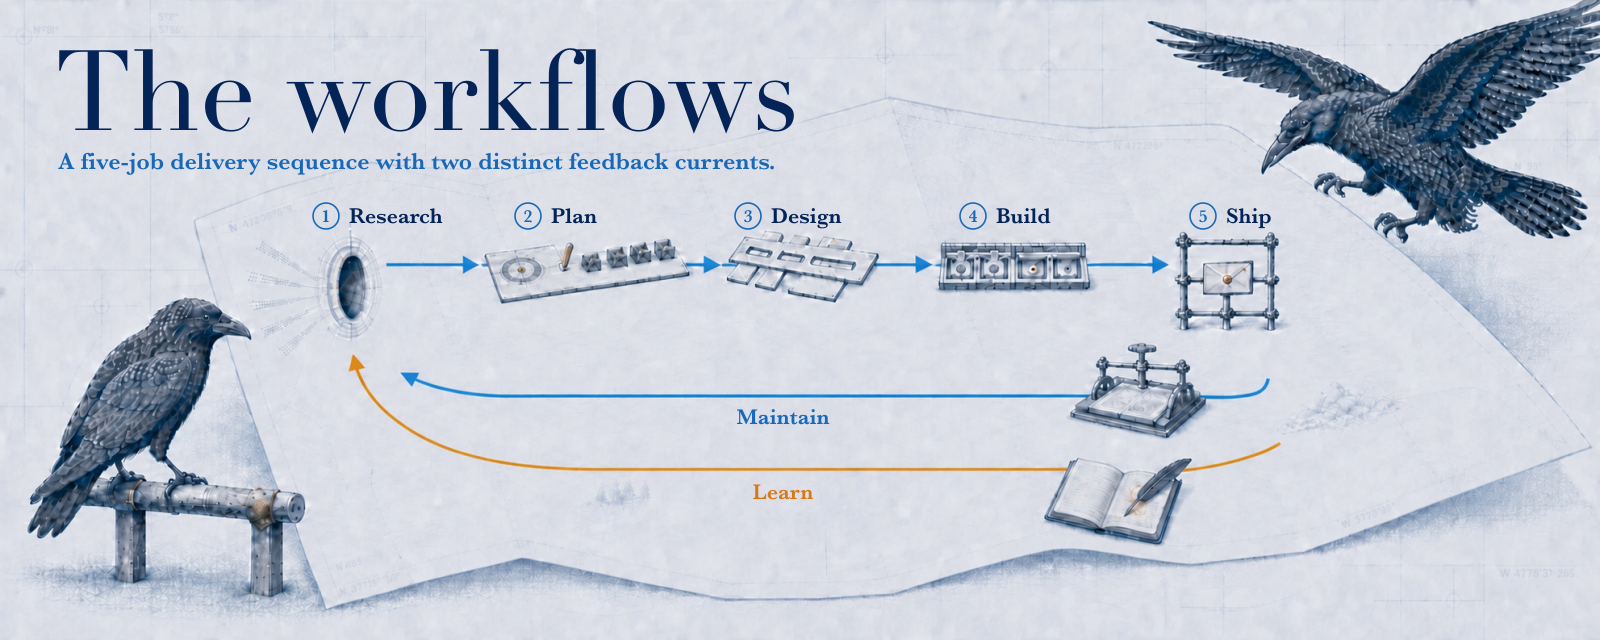
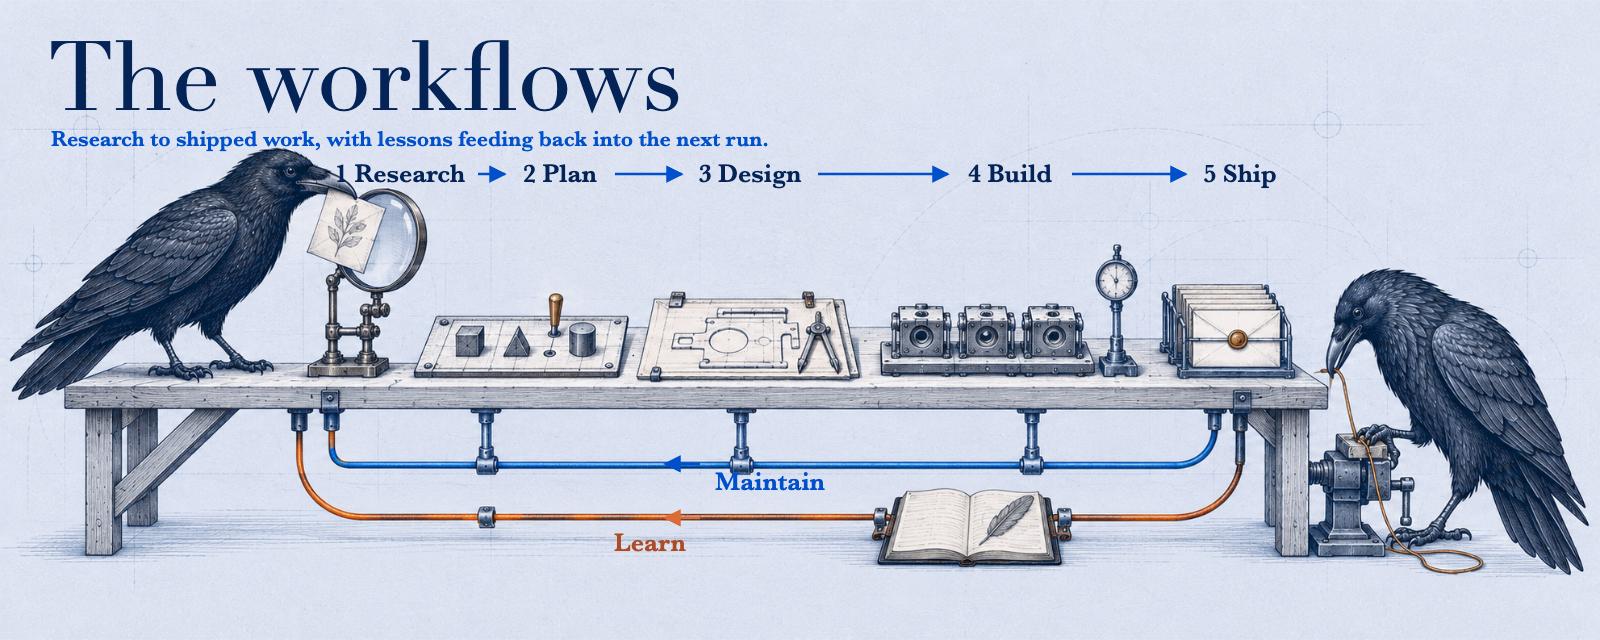
docs: show the workflow as a working bench with distinct feedback paths

diff --git a/DESIGN.md b/DESIGN.md
@@ -75,7 +75,7 @@ Navy signals authority, cobalt shows the sequence, and blue-gray defines support
 
 **The Layered Type Rule.** Keep essential lettering as real typography over a text-free illustration plate, retain the editable source, and export the shipped raster losslessly.
 
-The workflow banner keeps its illustration and typography in separate production layers. `docs/assets/the-rookery-workflows-banner-artwork.webp` is the regenerated text-free illustration plate with complete routes and mechanisms, and `docs/assets/the-rookery-workflows-banner.svg` adds the title in Didot and the supporting copy and labels in Baskerville Semibold. The SVG contains no corrective artwork patches. The shipped WebP is a lossless render of that editable source, so later copy changes should update the vector text layer rather than regenerate the illustration.
+The workflow banner keeps its illustration and typography in separate production layers. `docs/assets/the-rookery-workflows-banner-artwork.webp` holds the text-free working bench and its two return cables. `docs/assets/the-rookery-workflows-banner.svg` adds the Didot title, Baskerville supporting copy and labels, delivery arrows, and return arrowheads. The shipped WebP is a lossless render of that editable source, so later copy changes should update the vector text layer rather than regenerate the illustration.
 
 The README banner follows the same pattern. `docs/assets/the-rookery-readme-banner-artwork.webp` holds the text-free artwork; `docs/assets/the-rookery-readme-banner.svg` adds the Didot title and the Baskerville tagline, “A field guide to how I build with AI.” Its matching WebP is the lossless rendered asset used by the README.
 
@@ -89,7 +89,7 @@ Repository banners use a wide landscape canvas (1600 × 640). They depend on lar
 
 A banner should make its main elements clear at first glance. Give the title a clear area, make the corvid's action dominant, and place a route or mechanism across the remaining space. Other explanatory visuals should concentrate on one job or relationship at a time. The mechanism should be readable before the texture, and the subject should face or move into the next meaningful area of the composition.
 
-The approved workflow banner uses field-map composition C: a large serif title and cobalt subtitle occupy the upper-left while an unfolded diagonal map fills the field. One raven anchors Research and another descends to retrieve the verified dispatch at Ship. Research runs through Plan, Design, Build, and Ship above two quiet return ribbons, without a redundant label over the numbered delivery sequence. A solid cobalt Maintain ribbon passes through a compact repair-and-binding press, while a solid orange Learn ribbon passes through an open field notebook and feather. The ribbons omit detailed inputs and outcomes. The adjacent prose explains how Maintain creates repository memory and Learn returns a better question to Research. This arrangement is specific to the workflow explanation, not a template for every future asset.
+The approved workflow banner uses a working bench. Five distinct mechanisms carry Research through Plan, Design, Build, and Ship from left to right. Huginn brings a field note to the research lens while Muninn works at the repair clamp on the right. Their labels sit on clear paper above the mechanisms, with Research shifted away from Huginn's head. A cobalt cable returns improvements to the bench, and a separate orange cable passes through the learning notebook. The adjacent prose explains how Maintain creates repository memory and Learn returns a better question to Research. This arrangement is specific to the workflow explanation, not a template for every future asset.
 
 **The Causal System Rule.** Show the five delivery jobs as an ordered sequence and each feedback process as its own path to the stages or input it changes. Never force distinct feedback loops into a false serial sequence, and never flatten the system into repeated equal containers.
 

diff --git a/WORKFLOWS.md b/WORKFLOWS.md
@@ -1,6 +1,6 @@
 <!-- markdownlint-disable-file MD041 -->
 
-![Diagram of Research, Plan, Design, Build, and Ship, with Maintain and Learn feeding lessons back into the workflow](docs/assets/the-rookery-workflows-banner.webp)
+![A working bench carries Research, Plan, Design, Build, and Ship from left to right. Huginn brings a field note; Muninn tends the work. Separate Maintain and Learn paths return improvements and questions.](docs/assets/the-rookery-workflows-banner.webp)
 
 # The workflows
 
